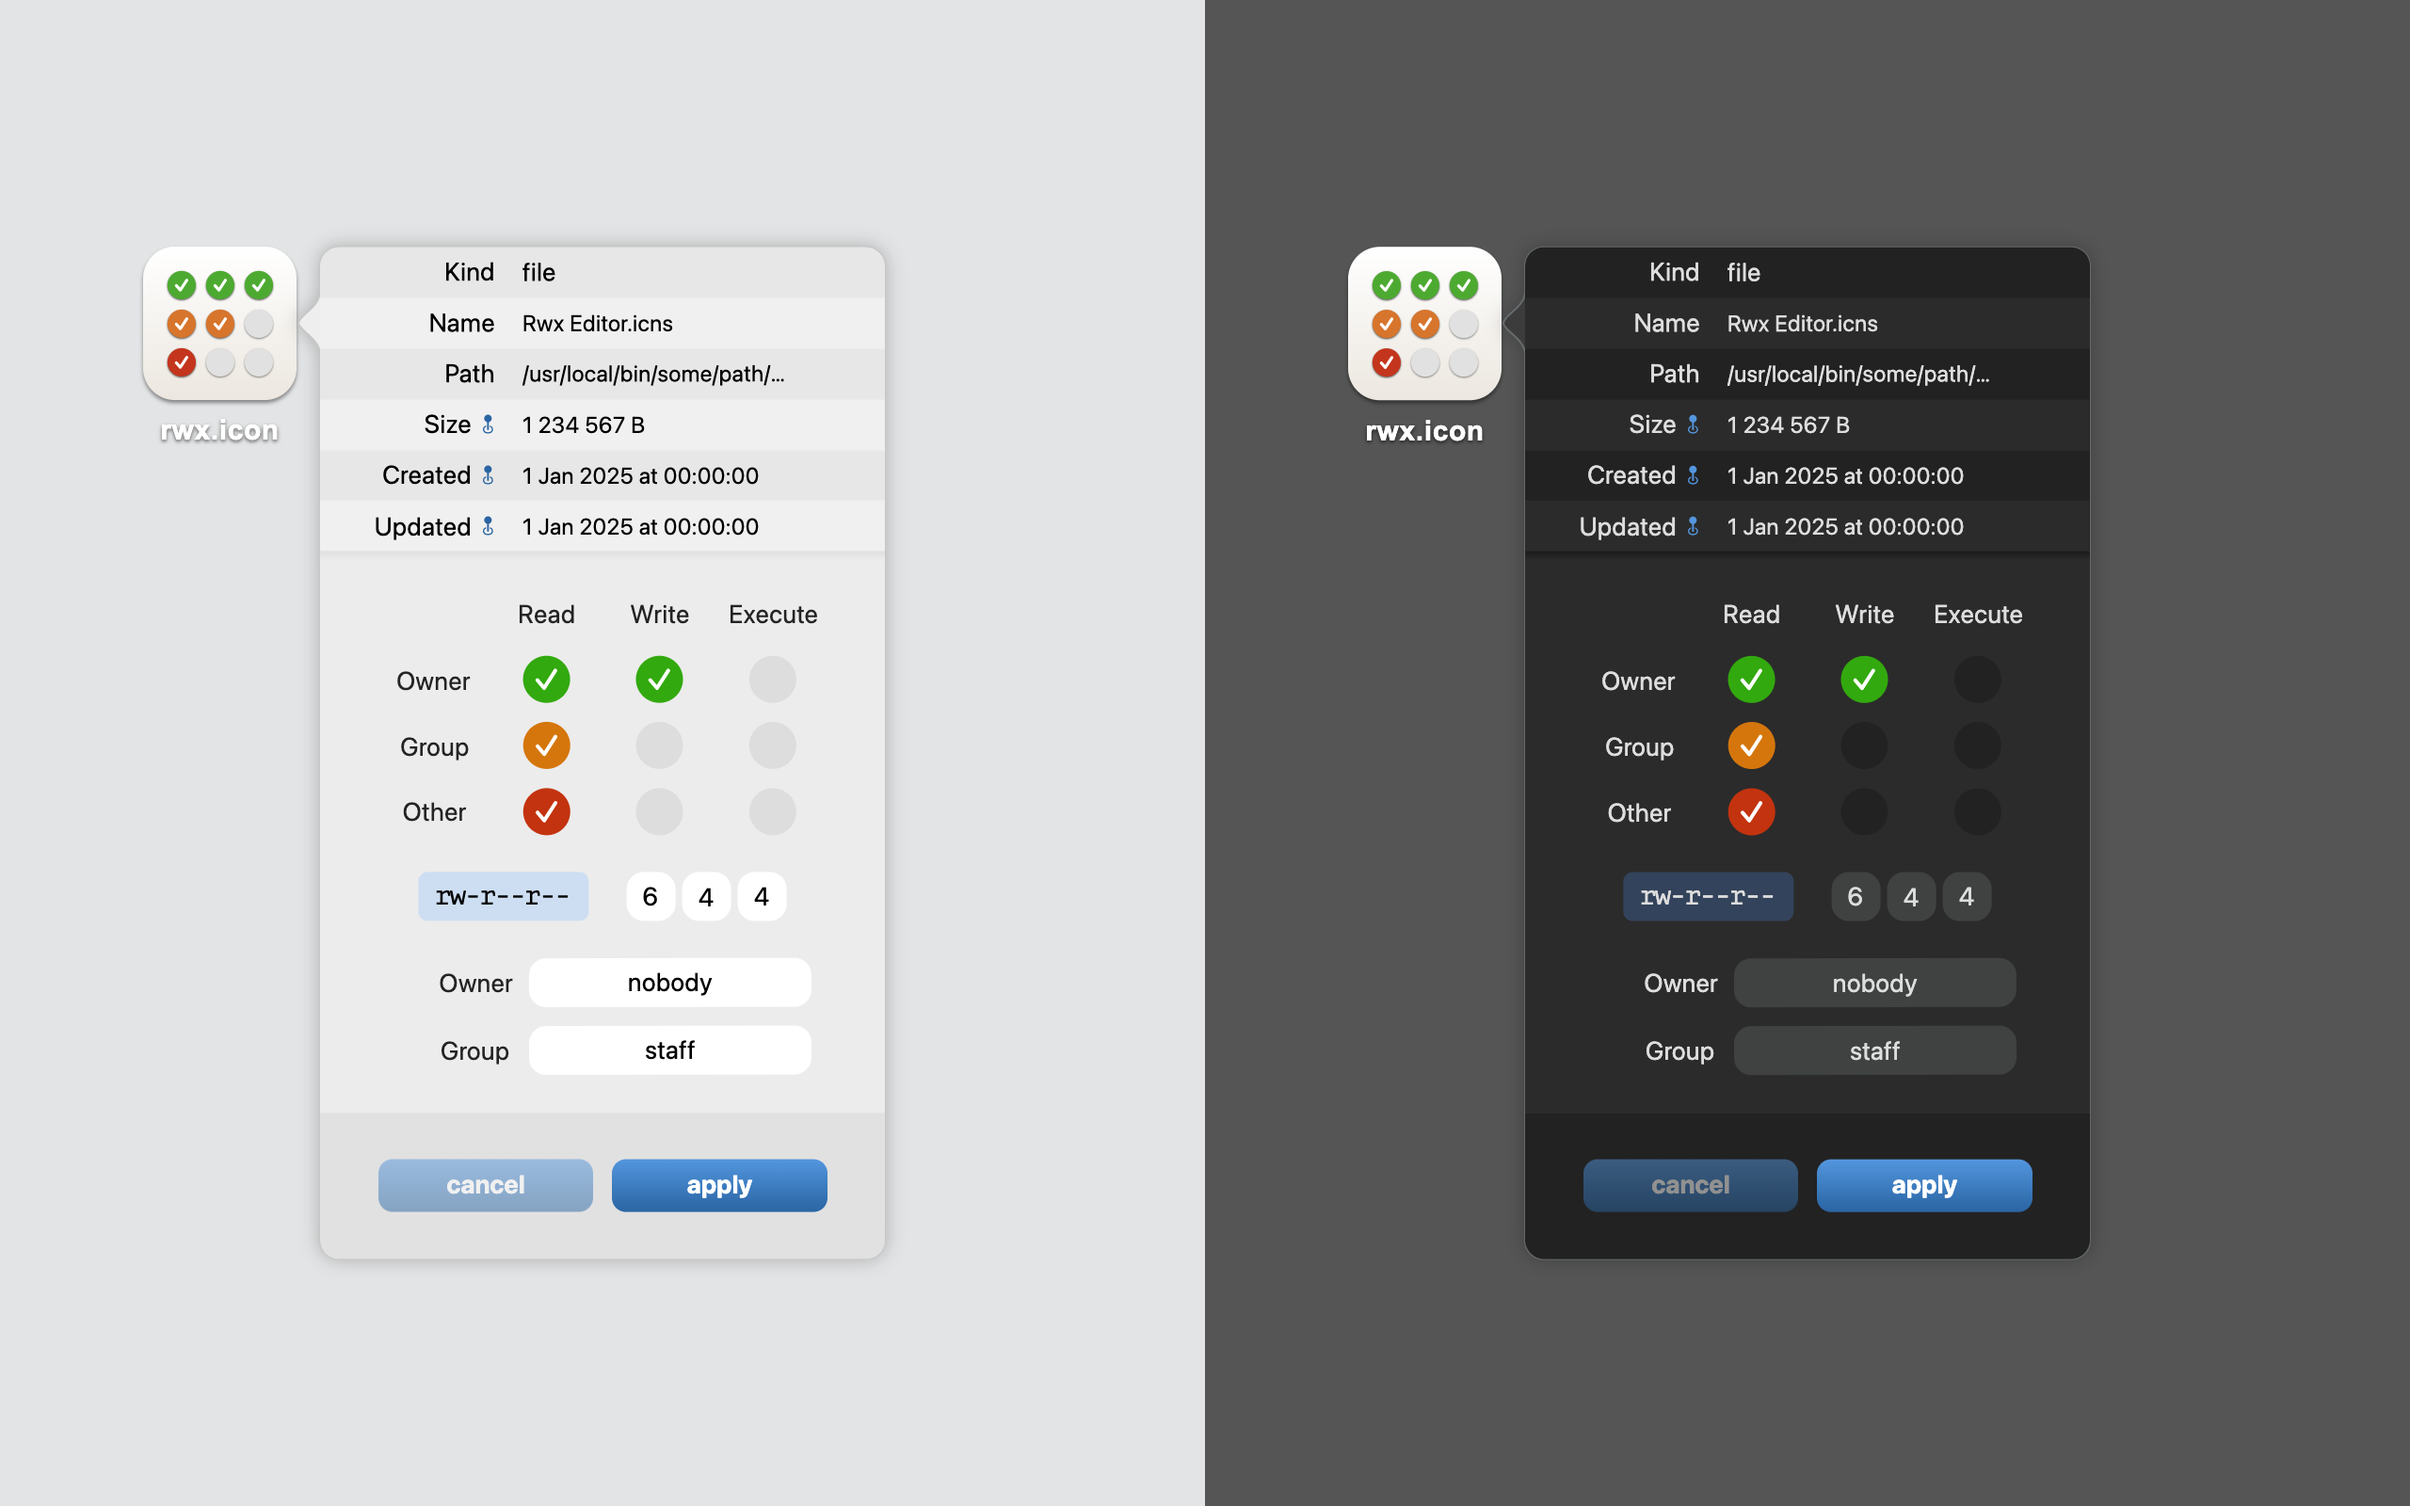
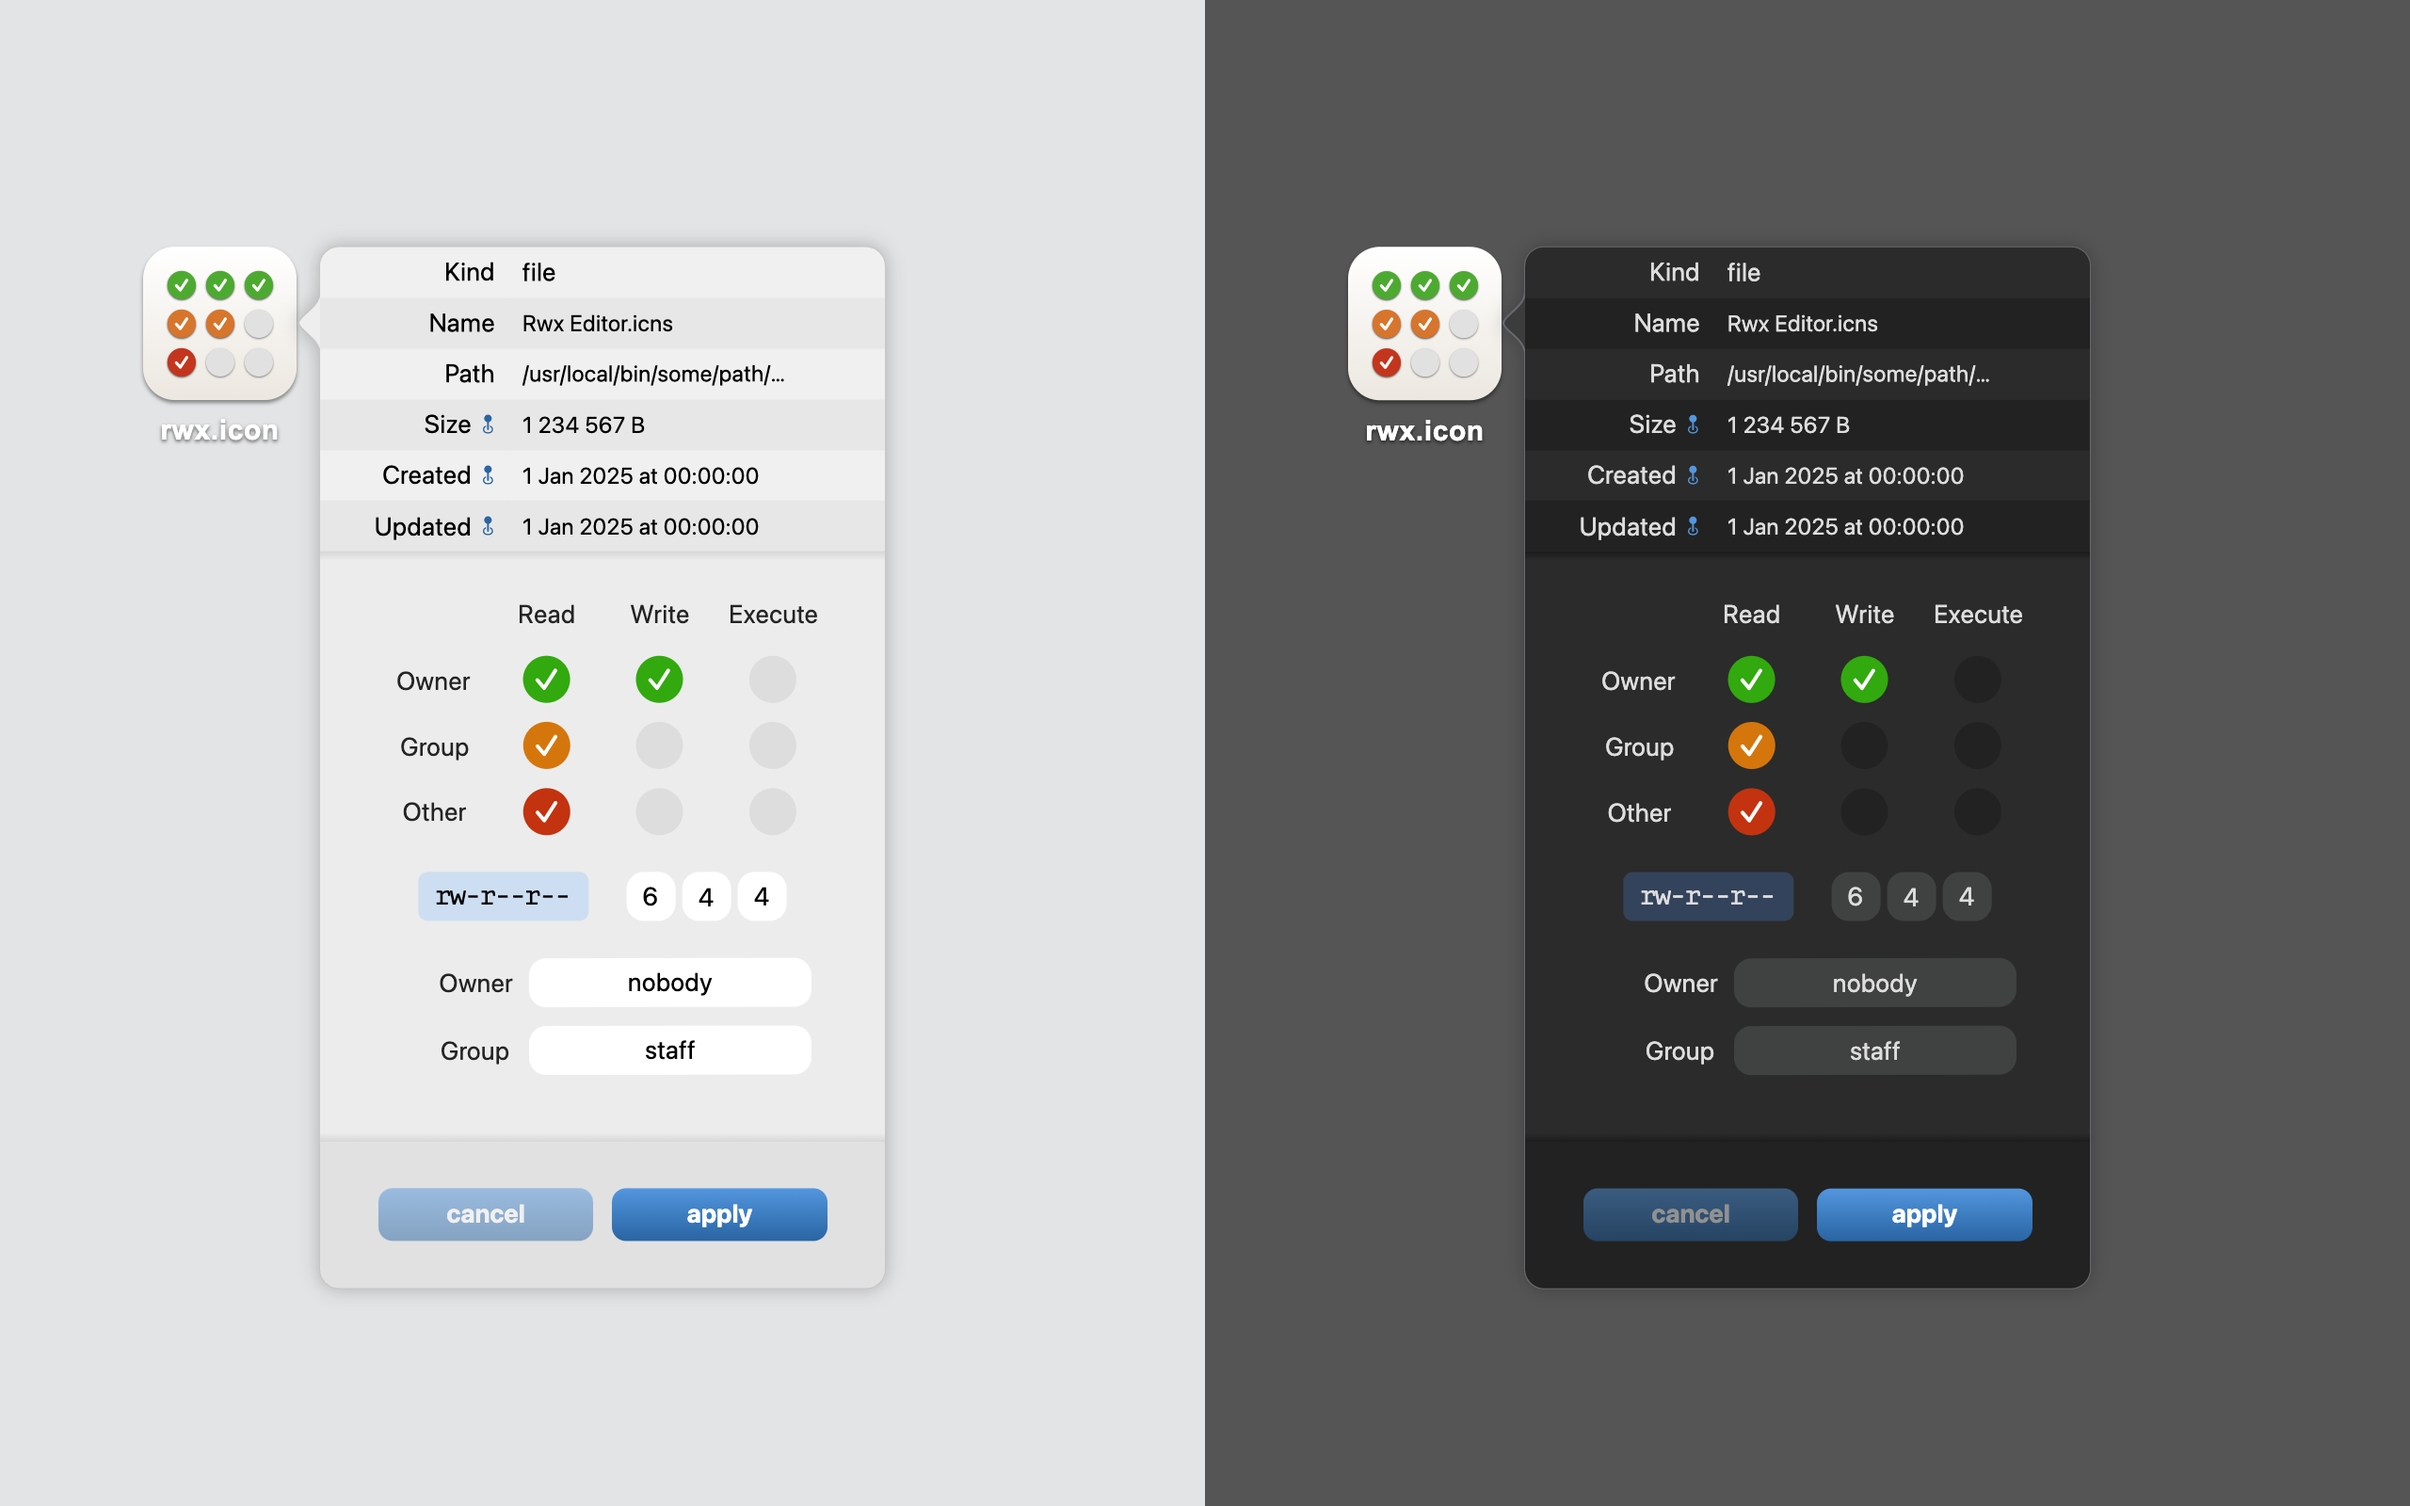
fix

Changed region(s): [[0.625, 0.75, 0.875, 0.875], [0.1562, 0.75, 0.3438, 0.8438]]

diff --git a/app/app/MainView.swift b/app/app/MainView.swift
@@ -177,7 +177,7 @@ struct MainView: View {
                     .fill(
                         LinearGradient(
                             colors: [
-                                Color(.black).opacity(self.colorScheme == .light ? 0.1 : 0.3),
+                                Color(.black).opacity(self.colorScheme == .light ? 0.1 : 0.4),
                                 Color(.black).opacity(self.colorScheme == .light ? 0.0 : 0.0) ],
                             startPoint: .top,
                             endPoint: .bottom
